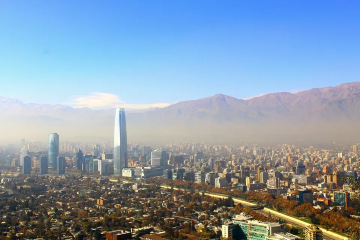
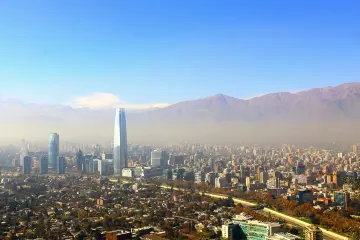
Fix: 3rd audit review corrections [Dev-Uriel Cruz]

diff --git a/place.html b/place.html
@@ -57,7 +57,7 @@
                     <h2>Weather</h2>
                 </div>
                 <div class="weather-icon-mobile">
-                    <img src="images/weather-icon.webp" alt="Weather icon" width="80" height="80">
+                    <img src="images/weather-icon.svg" alt="Weather icon" width="80" height="80">
                 </div>
                 <div class="card-body">
                     <ul class="data-list">